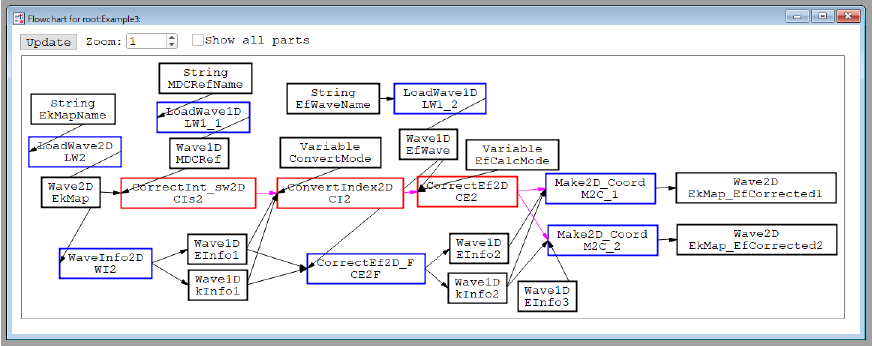
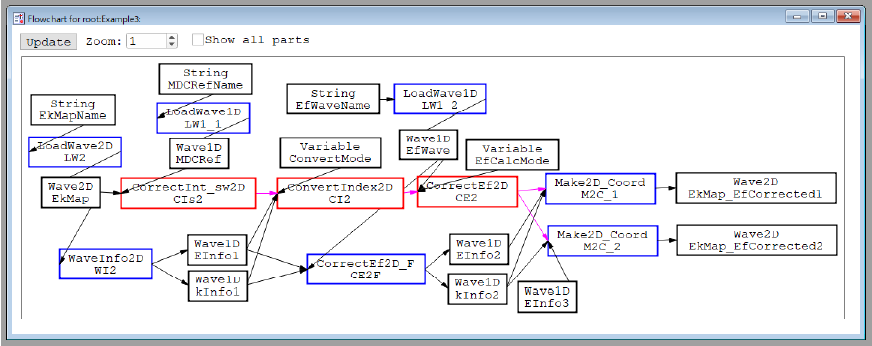
GettingStarted Example 3 (finished)

diff --git a/docs/GettingStarted.md b/docs/GettingStarted.md
@@ -216,7 +216,6 @@ The following **Table 4** shows the diagram wave for Example 3.
 | Function | CorrectEf2D_F | CE2F | EInfo1 | kInfo1 | EfWave | EInfo2 | kInfo2 |
 | Data | Wave2D | EkMap_EfCorrected1 | | | | | |
 | Function | Make2D_Coord | M2C_1 | EInfo2 | kInfo2 | CE2 | EkMap_EfCorrected1 | |
-| Data | Wave2D | EkMap_EfCorrected2 | | | | | |
 
 In addition to **EkMapSample**, you need to load other two waves; **MDCRefSample** (Figure 6 left) and **EfWaveSample** (Figure 6 right).
 They are available from **MDCRefSample.ibw** and **EfWaveSample.ibw** respectively.
@@ -243,11 +242,13 @@ The roles of three **Module**s used are as follows.
 Since the raw data is a 2D wave (Kinetic energy, angle) with experimental inhomogenity, the following process gives (E-Ef, angle) map without the inhomogenity.
 - **CorrectInt_sw2D** receives a list of points described by **Index2D** form (p, q) and returns the values at these points. Here, the values are not of raw data at the corresponding points but those without the intensity inhomogenity. The removal of the intensity inhomogenity is achieved by dividing the raw data (**EkMap**) by the reference wave (**MDCRef**). Since the inhomogenity is only along the angle direction in the swept mode of ARPES measurements, the reference is 1D along the angle direction like the MDC.
 - **ConvertIndex2D** receives a list of points described by **Coordinate2D** (x, y) and returns the values at these points. The module converts the **Coordinate2D** (x, y) to **Index2D** (p, q) based on **InfoWave**s (**EInfo1** and **kInfo1**) using either of two **ConvertMode**s. One is the nearest-neighbor mode (```ConvertMode=0```), where (p, q) is the nearest point to (x, y). The other is the interpolation mode (```ConvertMode=1```), where the value at (x, y) is calcuated from the surrounding four points.
-- **CorrectEf2D** receives a list of points described by **Coordinate2D** (E-Ef, angle) and returns the values at these points. The module converts (E-Ef, angle) to (Kinetic energy, angle) based on the Fermi level information (**EfWave**). Since the Fermi level can slightly depends on the emission angle due to the photoelectron analyzer condition, it is not appropriate to simply modify the energy offset. **EfCalcMode** determines how to calculate the Fermi level at the specified angle (nearest-neighbor or interpolation), but the choice negligibly affects the analysis result.
+- **CorrectEf2D** receives a list of points described by **Coordinate2D** (E-Ef, angle) and returns the values at these points. The module converts (E-Ef, angle) to (Kinetic energy, angle) based on the Fermi level information (**EfWave**). The Fermi level can slightly depends on the emission angle due to the photoelectron analyzer condition. **EfCalcMode** determines how to calculate the Fermi level at the specified angle (nearest-neighbor or interpolation), but the choice negligibly affects the analysis result.
 
 The **Make2D_Coord** *Function* makes the analysis result (**Figure 8**).
 The function makes a list of points (E-Ef, angle) based on the input **InfoWave**s (**EInfo2** or **EInfo3** and **kInfo2**) and pass the list to the **CorrectEf2D** *Module* via the **Socket**.
 The function receives the values at the points from the module and fill the 2D wave by the received values.
+
+![Schematic](Images/Module_schematic.png)
 
 **Figure 8**: Schematic of analysis using **Module**s and the **Make2D_Coord** *Function*.
 
@@ -256,6 +257,8 @@ If we only want to remove the intensity inhomogenity, we can define a **Function
 However, after the Fermi level correction, the data points in 2D waves before and after the correction don't have one-to-one correspondence (**Figure 9**).
 Similar situation happens when we want to convert the angle to the momentum (sine or cosine of the angle).
 That means the analyzed results may differ depending on how we want to make waves after the analysis.
+
+![Schematic](Images/EfCorrection_schematic.png)
 
 **Figure 9** The schematic of broken one-to-one correspondence before and after the Fermi level correction.
 
@@ -274,8 +277,47 @@ Since the **delta** is 0.1 eV, the exported data (**Figure 10**) cannot reflect 
 
 **Figure 10**: Color map of **EkMap_EfCorrected1**.
 
+Then, what will happen when we use different **InfoWave**s to make the corrected result?
+Duplicate **EInfo2** to another **InfoWave** named **EInfo3** and modify it as shown in **Table 6**.
+Also you need to add two rows (**Table 7**) in the **diagram wave**.
+
+**Table 6**: **EInfo3** data.
+| | EInfo3 |
+| --- | --- |
+| 0: offset | -0.95 |
+| 1: delta | 0.01 |
+| 2: size | 141 |
+
+**Table 7**: Additional *Part*s for Example 3.
 | 0: *Kind* | 1: *Type* | 2: *Name* | 3: arguments | 4 | 5 | 6 |
 | --- | --- | --- | --- | --- | --- | --- |
+| Data | Wave2D | EkMap_EfCorrected2 | | | | | |
 | Data | Wave1D | EInfo3 | | | | | |
 | Function | Make2D_Coord | M2C_2 | EInfo3 | kInfo2 | CE2 | EkMap_EfCorrected2 |
 
+After the execution, you will get **EkMap_EfCorrected2** like **Figure 11**.
+Since the **delta** become 10 times smaller, the corrected map can reflect the small energy shifts due to the angle dependence of the Fermi level.
+However, **EkMap_EfCorrected2** has 10 times more data points than the raw data and **EkMap_EfCorrected1**, so it is not quite good for the further analysis.
+
+![EkMap_EfCorrected2](Images/EkMap_corrected_NN2.png)
+
+**Figure 10**: Color map of **EkMap_EfCorrected2**.
+
+So far, we have used the nearest-neighbor mode in the **ConvertIndex2D** *Module*.
+That is why **Figure 10** virtually retains the energy step of 0.1 eV.
+**Figure 11** is the color map obtained with the interpolation mode.
+The interpolation mode makes the color map more smoother, but the map loses the energy step information of the raw data.
+The EDCs of the color maps (**Figure 12**) highlight the difference between the nearest-neighbor and the interpolation modes.
+
+![EkMap_EfCorrected1](Images/EkMap_corrected_IP2.png)
+
+**Figure 11**: Color map of **EkMap_EfCorrected2**. This color map is obtained by the interpolation mode in the **ConvertIndex2D** *Module*.
+
+![EDCs](Images/EDC_NN2_IP2.png)
+
+**Figure 12**: Energy distribution curves of color maps in **Figures 10 and 11** at 0 deg. The red and blue points represent data points.
+
+In summary, we demonstrate that the color map of the corrected data looks different depending on the choice of the axes.
+We think that there is no perfect answer on how the analyzed data should be presented.
+Therefore, it is important to be able to explain the analysis process.
+We believe that our diagram-based analysis framework helps the transparency and traceability of experimental data analysis.
